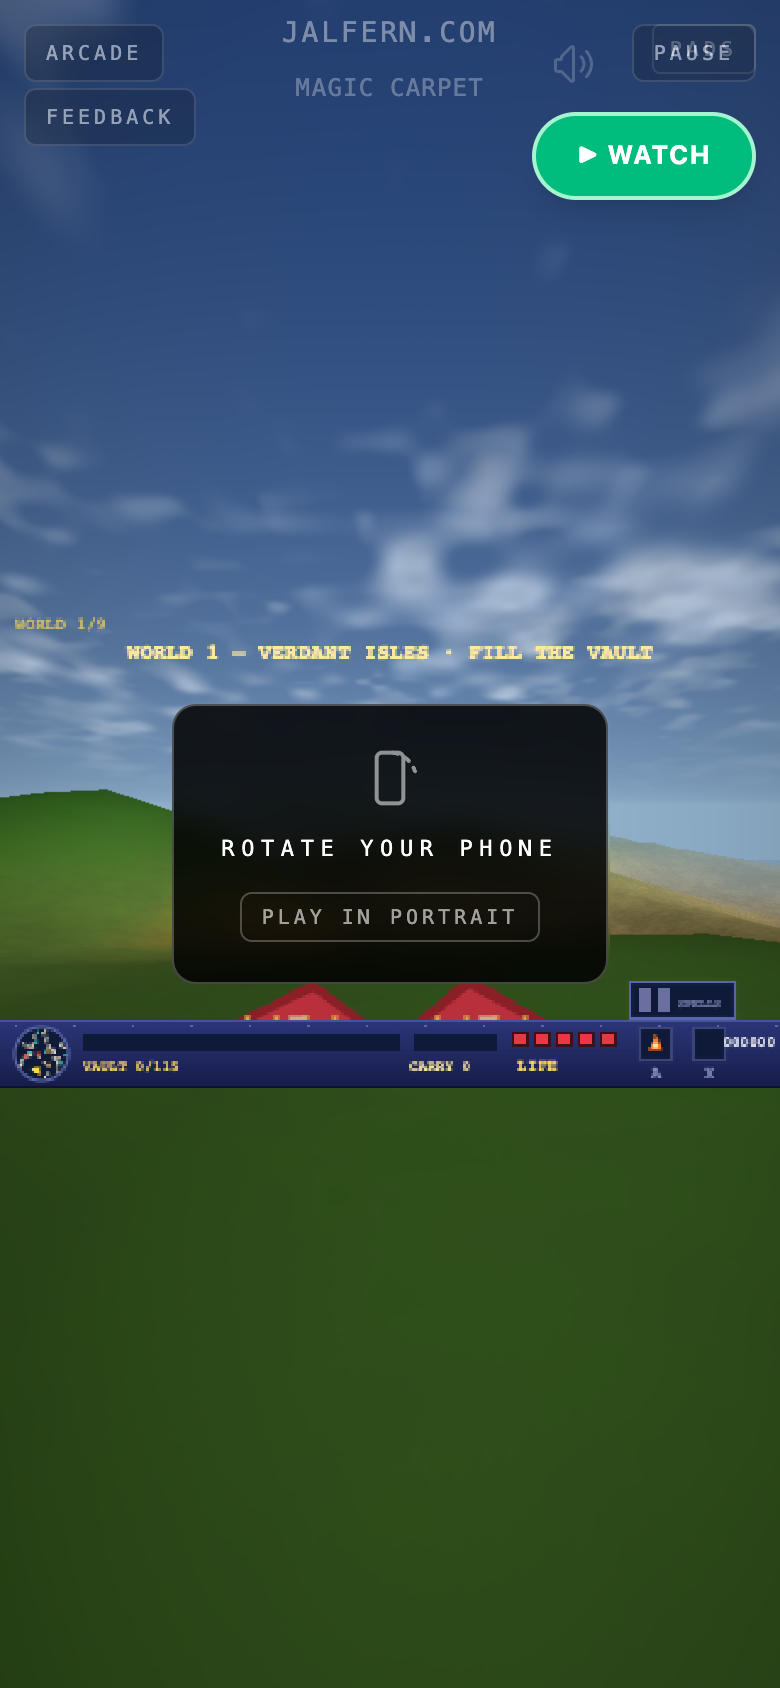
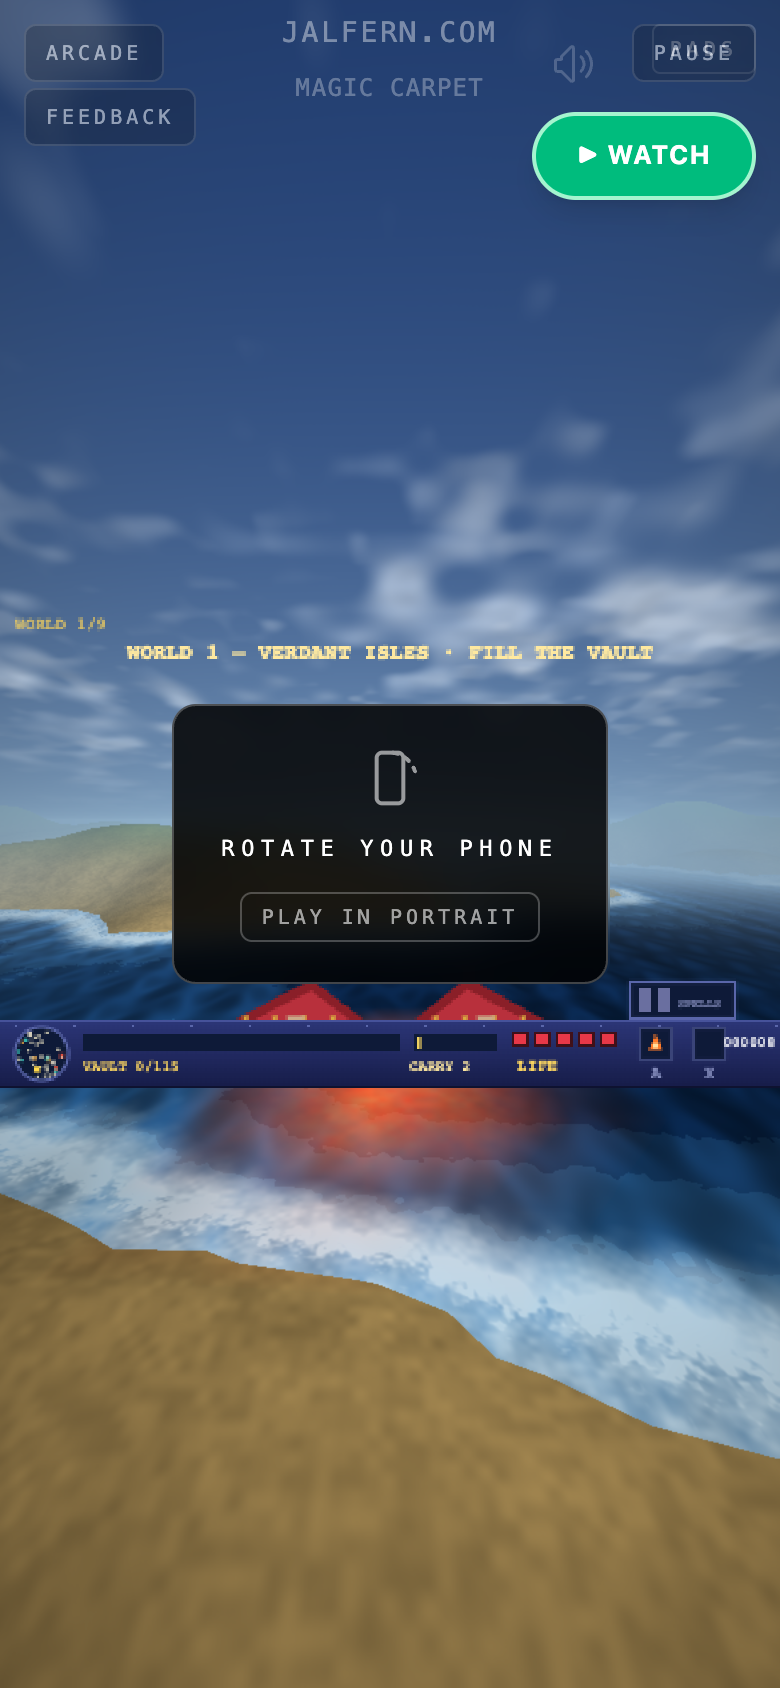
QA #1764 item 4 stage 5: SEA FROM BELOW — the surface is a silvered, travelling-crest ceiling when the camera dives under WATER; top-side sparkle/foam gated to views from above; far span fades to deep teal; carpetcheck +9 gates (source pins + JS twin)

diff --git a/src/games/MagicCarpet/renderer.js b/src/games/MagicCarpet/renderer.js
@@ -393,6 +393,10 @@ void main(){
     land = land * (0.80 + 0.32 * grain);
     vec3 col = land * diff * mix(vec3(1.0), uSunCol, 0.25);
     vec3 V = normalize(uCamPos - vWorld);
+    // #1764 item 4 stage 5: SEA FROM BELOW — how far under the surface the
+    // eye sits (0 dry, 1 a metre or more under). View-dependent presentation
+    // read, like the stage-2 dive composite; the sim never sees it.
+    float under = smoothstep(0.0, 1.0, .0 - uCamPos.y);
     if (vH < ${WATER}.0) {
         float depth = ${WATER}.0 - vH;
         float bpos = depth * 0.28 + fbm2(vWorld.xz * 0.7 + uWorldTime * vec2(${WAVE_TRAVEL.x}, ${WAVE_TRAVEL.y}) + 3.3) * 0.45;
@@ -421,15 +425,31 @@ void main(){
         vec3 refl = normalize(reflect(-V, wn));
         float spark = pow(max(dot(refl, normalize(uSunDir)), 0.0), 140.0)
             * step(0.42, fbm2(vWorld.xz * 0.8 + uWorldTime * 0.016));
-        wcol = mix(wcol, uZenith * 1.2, fres * 0.45);
-        wcol *= wsh * (0.9 + 0.1 * sin(rip * 1.4 + vWorld.z * 0.04));
-        wcol += uSunCol * spec * 0.9;
-        wcol += uSunCol * spark * 2.4;
-        float shore = smoothstep(3.2 + fbm2(vWorld.xz * 0.3) * 1.7, 0.35, depth);
-        float foam = shore * (0.45 + 0.55 * fbm2(vWorld.xz * 0.9 + uWorldTime * 0.014));
-        float lace = smoothstep(0.9, 1.6, depth + fbm2(vWorld.xz * 1.6 - uWorldTime * 0.02)) * shore;
-        wcol = mix(wcol, uFoam, clamp(foam + lace * 0.5, 0.0, 1.0) * 0.85);
-        col = wcol;
+        if (under < 0.5) {
+            wcol = mix(wcol, uZenith * 1.2, fres * 0.45);
+            wcol *= wsh * (0.9 + 0.1 * sin(rip * 1.4 + vWorld.z * 0.04));
+            wcol += uSunCol * spec * 0.9;
+            wcol += uSunCol * spark * 2.4;
+            float shore = smoothstep(3.2 + fbm2(vWorld.xz * 0.3) * 1.7, 0.35, depth);
+            float foam = shore * (0.45 + 0.55 * fbm2(vWorld.xz * 0.9 + uWorldTime * 0.014));
+            float lace = smoothstep(0.9, 1.6, depth + fbm2(vWorld.xz * 1.6 - uWorldTime * 0.02)) * shore;
+            wcol = mix(wcol, uFoam, clamp(foam + lace * 0.5, 0.0, 1.0) * 0.85);
+            col = wcol;
+        } else {
+            // #1764 item 4 stage 5: the surface seen from below — the SAME
+            // advected crest bands (wcol, stages 1+4) silvered into a ceiling:
+            // transmitted light that tracks the sun's bearing through the waves,
+            // shimmer on the shared ripple clock, and a span that sinks into
+            // the deep instead of lifting to sky. Foam stays on top — it is a
+            // surface-top phenomenon, and the ceiling never wears it.
+            vec3 fdir = normalize(vWorld - uCamPos);
+            float sdn = max(dot(fdir, uSunDir), 0.0);
+            float shim = 0.5 + 0.5 * sin(rip * 1.6 + uWorldTime * 0.045);
+            vec3 cc = mix(wcol * 0.5, vec3(0.30, 0.62, 0.74), 0.55 + 0.25 * shim);
+            cc += uSunCol * pow(sdn, 24.0) * (0.5 + 0.8 * shim);
+            cc += uSunCol * pow(sdn, 3.5) * 0.10;
+            col = mix(cc, vec3(0.02, 0.07, 0.11), smoothstep(18.0, 95.0, vDist));
+        }
     }
     if (vGlow > 0.004) {
         float flick = 0.72 + 0.28 * fbm3(vWorld.xz * 0.22 + uWorldTime * 0.03);
@@ -448,7 +468,9 @@ void main(){
     // #1764 item 5 stage 5: aerial perspective — the haze layer (hazeOfG) and
     // the carpet's altitude (airOfG) shape the mix; the max() keeps the original
     // horizon fuse: the grid edge must still dissolve into the fog color.
-    col = mix(col, uFogCol, max(aerialG(vDist, vH, uCamPos.y) * 0.92, smoothstep(${HALF - 28}.0, ${HALF - 4}.0, vDist) * 0.92));
+    // #1764 item 4 stage 5: under the sea the far span fades to the deep, never
+    // to sky — the ceiling keeps its distance-darkened teal to the grid edge.
+    col = mix(col, mix(uFogCol, vec3(0.02, 0.07, 0.11), under), max(aerialG(vDist, vH, uCamPos.y) * 0.92, smoothstep(${HALF - 28}.0, ${HALF - 4}.0, vDist) * 0.92));
     gl_FragColor = vec4(col, 1.0);
 }
 `

diff --git a/src/games/MagicCarpet/README.md b/src/games/MagicCarpet/README.md
@@ -434,8 +434,17 @@ see item 5).
   travel (the t field is the t=0 field translated exactly, nothing swirls).
   Mutant: static field → churn gate dies. Drift direction is a design choice
   (the original's exact heading is unverifiable here); the magnitude rides the
-  same family as the sparkle drift. Still open: the sea surface seen
-  from below.
+  same family as the sparkle drift. **CLOSED by #1764 item 4 stage 5:** the sea
+  surface seen from below is a ceiling — below the waterline (`under`, a pure
+  camera-depth read) the top-side decoration (sky fresnel lift, sparkle, foam
+  lace) is gated off and the same advected crest bands re-appear silvered:
+  transmitted shafts that track the sun's bearing through the waves, shimmer on
+  the shared ripple clock, and a span that fades to deep teal instead of lifting
+  to sky fog, so a dive reads as being under a moving sea, not in a blue void.
+  Presentation-only (sim.js never learns the camera); carpetcheck proves it with
+  source pins (decoration gated, foam banned on the ceiling, sky-fog mix
+  replaced) + a JS twin (sun-shaft monotone, silver-over-deep luminance,
+  one-minute shimmer range, bounded fade span).
 - **CLOSED by #1694:** terrain deformation ripple — craters, RAISE mounds and
   DISSOLVE wounds now unfold over CRUMBLE_T=10 ticks (ease-in collapse,
   ease-out swell, a shockwave rim that settles to exactly zero) with the
